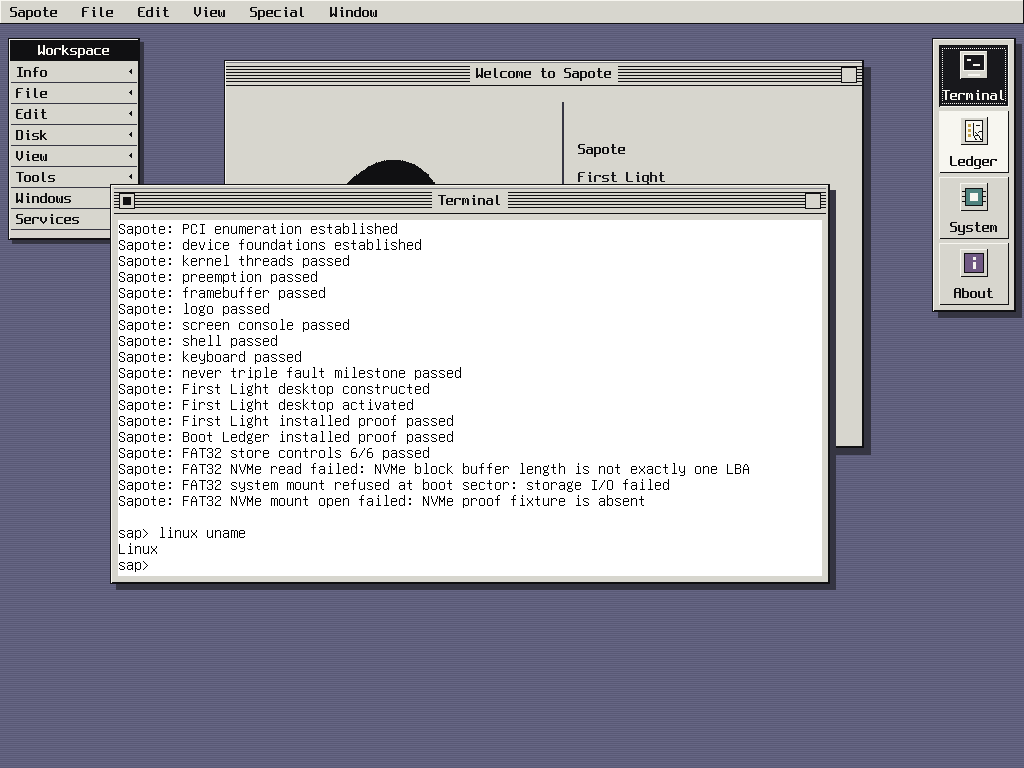
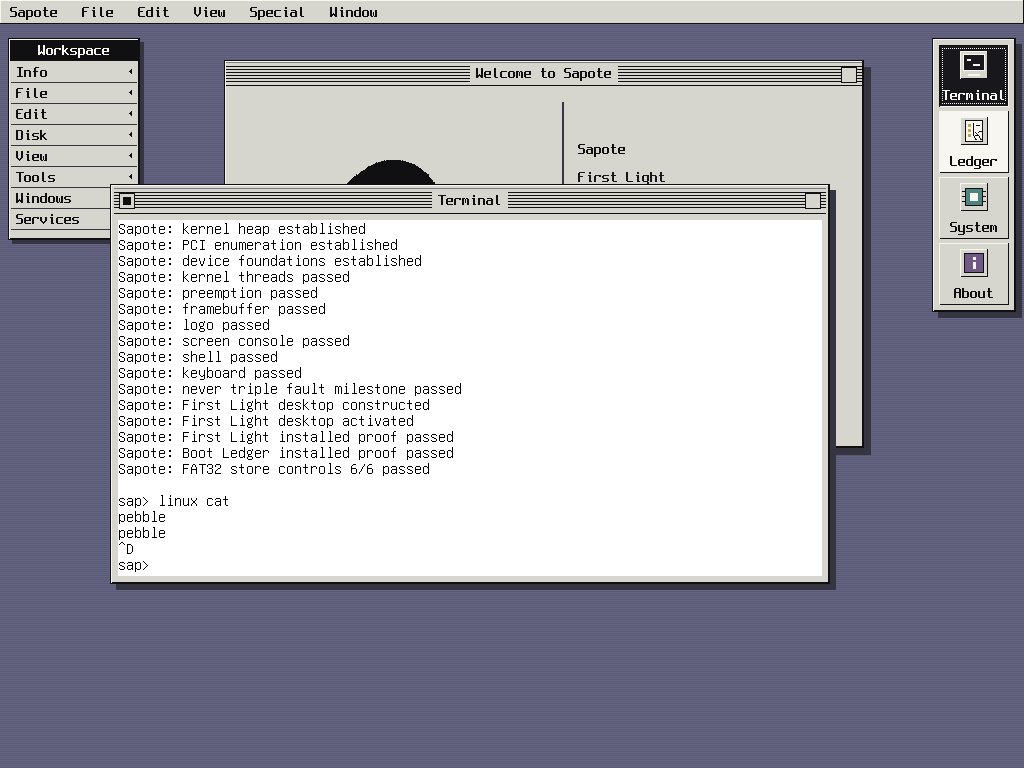
Separate current and compatibility UI evidence

diff --git a/docs/FIRST_LIGHT.md b/docs/FIRST_LIGHT.md
@@ -129,6 +129,8 @@ The source captures are:
 - `assets/sapote-v2-first-light.png`;
 - `assets/sapote-v2-first-light-focus.png`;
 - `assets/sapote-v2-first-light-terminal.png`;
+- `assets/sapote-v2-first-light-legacy-uname.png` (the retained FAT16
+  compatibility launch on the v2 desktop);
 - `assets/sapote-first-light-boot-20s.mp4` (an approximately 20-second
   First Light boot capture).
 
